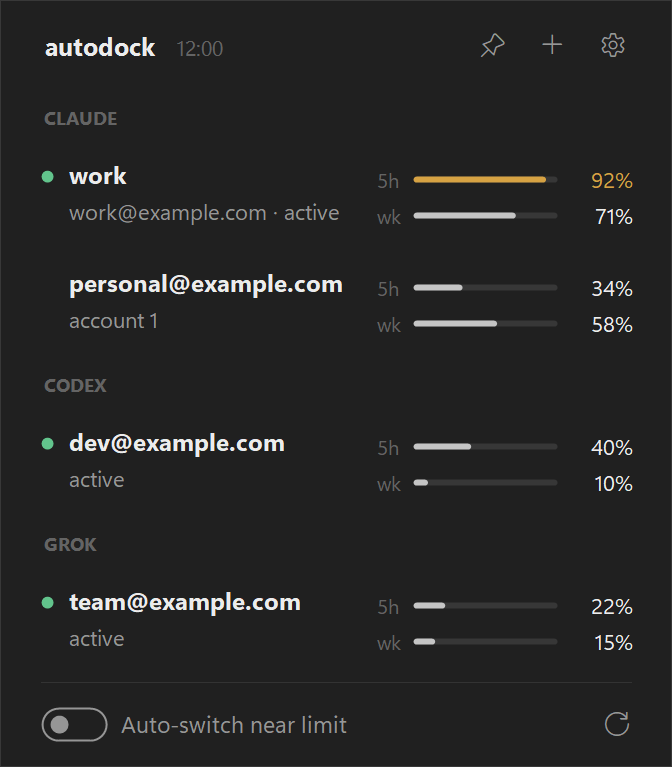
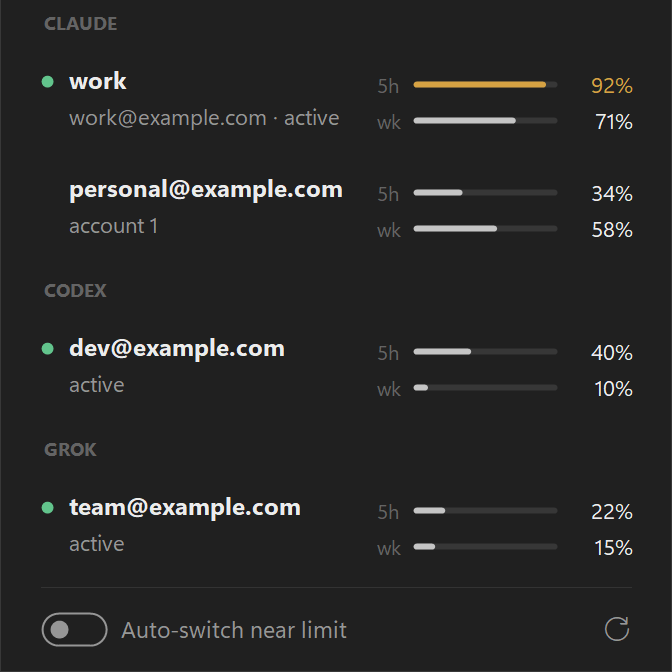
docs: reposition handoff as an autonomous multi-account coding coordinator
Claude-Session: https://claude.ai/code/session_015bkmdTqQwJf6R9nwCRZGKb

diff --git a/README.md b/README.md
@@ -1,44 +1,73 @@
 # handoff
 
-multi-account switcher for Claude Code, Codex, and Grok Build. live usage, reset timers, and one-click switching.
+**Your Claude accounts. One coding team.**
 
-**[download for Windows](https://github.com/trexchery/handoff/releases/latest)**
+handoff turns your Claude Code accounts into a coordinated coding team. a Director plans the work; agents build, test, review, and open pull requests on your other accounts. you review and merge.
+
+```text
+Director  ->  coding agents  ->  verification + review  ->  GitHub pull request
+plans         one isolated       your test command,         pushed and opened by handoff.
+the work      worktree each      then a fresh reviewer      you merge. agents never do.
+```
+
+## how it works
+
+1. you set a goal or point agents at a repository's open issues.
+2. a read-only Director on Opus plans the next steps, orders them by dependency, and picks a model and effort for each. plain issues get a short Sonnet pass that orders and routes them instead.
+3. each step runs in its own git worktree and branch, as one of your other Claude accounts.
+4. handoff runs your verification command, then a fresh read-only session reviews the change. problems go back to the same session.
+5. handoff pushes the branch and opens a pull request. failing checks, conflicts, and review comments get another pass.
+
+## what you get
+
+- **autonomous issue handling**: works through actionable issues you opened or are assigned to, one reviewed pull request each.
+- **goal planning**: "the app has a settings page; `npm test` must pass". a goal counts as achieved only on evidence: merged work and passing checks.
+- **cross-repository coordination**: a goal can plan steps in your other repositories, and a step can wait for one in another.
+- **dependency ordering**: steps wait for the ones they build on to be merged.
+- **adaptive routing**: Haiku, Sonnet, or Opus, and low to max effort, chosen per run and raised only when reviews or checks fail.
+- **optional Ultracode**: off until you turn it on in settings, then used only on an idle account with plenty of quota.
+- **account and quota routing**: each run goes to an account with room in that model's own weekly window, and waits when none has (Opus work falls back to Sonnet at high effort or more).
+- **resumable, isolated work**: worktrees, branches, and sessions survive restarts, crashes, and pauses.
+
+details, limits, and costs: [docs/agents.md](docs/agents.md).
+
+## quick start
+
+needs **Windows 11 (64-bit)**, [Claude Code](https://docs.anthropic.com/en/docs/claude-code) with auto mode, [Git for Windows](https://git-scm.com/download/win), and the [GitHub CLI](https://cli.github.com/) signed in (`gh auth login`). agents run on Claude accounts other than the one you're signed in with, so add at least one more.
+
+1. download `handoff-win-x64.zip` from the [latest release](https://github.com/trexchery/handoff/releases/latest), extract it, and run `handoff\handoff.exe`.
+2. open the tray icon, use **+** to add each Claude account through official CLI sign-in.
+3. click the agents button (bottom right of the flyout) and pick your repository. a Claude Code terminal opens there.
+4. type your first goal:
+
+   ```text
+   goal: the app has a settings page; `npm test` must pass
+   ```
+
+   or, for existing issues: *"work through the open issues; `npm test` must pass"*.
+5. confirm the handoff dialog. it shows the branch pull requests target and the exact verification command.
+
+ask the same terminal what's going on, to reorder or skip work, or to answer a question. agents run **only while that repository's terminal is open**: close it and they pause where they are, reopen it and they continue. nothing runs in the background.
+
+## also in handoff
 
 <p align="center">
-  <img src="assets/handoff.png" width="420" alt="handoff tray dashboard listing Claude, Codex, and Grok Build accounts with 5-hour and weekly usage">
+  <img src="assets/handoff.png" width="380" alt="handoff tray dashboard listing Claude, Codex, and Grok Build accounts with 5-hour and weekly usage (the account dashboard, not the Director)">
 </p>
 
-## features
-
-- 5-hour and weekly usage limits and reset times for every account in one tray dashboard
-- one-click account switching without closing running sessions
-- pinned Claude terminals and optional auto-switching between Claude accounts
-- **continue in...** starts a new CLI session with local handoff notes after an interruption
-- project folders: assign a folder to an account, and terminals opened there run as that account without changing your login
-- **preserve remote control** (on by default): a new terminal turns Claude remote control back on only if its last session used it
-- optional quota notifications when a limit gets near, runs out, or resets
-- **auto-prime** (off by default): tracks each Claude account's 5-hour window and, with one click in the tray menu, starts every fresh one early with a single silent Haiku "hi" (no window, nothing saved), so it also resets early. success is only claimed once a new usage reading shows the window started
-- **agents** (off until you start them): work through a repository's open GitHub issues on your other Claude accounts, one reviewed pull request at a time, steered from a normal Claude Code terminal. give them a goal and a read-only director plans the steps, across your repositories, and calls it done only on evidence. never merges. [how it works](docs/agents.md)
-
-## install
-
-**Windows 11 (64-bit)** and [Claude Code](https://docs.anthropic.com/en/docs/claude-code) required. Codex and Grok Build optional.
-
-1. download `handoff-win-x64.zip` from the [latest release](https://github.com/trexchery/handoff/releases/latest).
-2. extract the zip and run `handoff\handoff.exe`.
-3. open the tray icon and use **+** to add accounts through official CLI sign-in.
-
-no installer or admin access required. unsigned releases may trigger Windows SmartScreen; a `.sha256` checksum is included with the download.
+- **usage dashboards**: 5-hour and weekly limits and reset times for every Claude, Codex, and Grok Build account in one tray window.
+- **account switching**: one click, without closing running sessions. optional auto-switching near a limit (off by default, Claude only).
+- **pinned terminals and project folders**: a terminal stays on its account, and a folder can be assigned an account without changing your login.
+- **session handoffs**: **continue in...** starts a new CLI session with local notes after an interruption.
 
 ## good to know
 
-- automatic switching is **off by default** and currently supports Claude accounts only.
-- switching updates the default CLI login. running Codex/Grok sessions need restarting to use the newly selected account; pinned Claude terminals remain on their assigned account.
-- Claude stops remote control when the signed-in account changes, and handoff never reconnects or types into a running session. pinned terminals keep their account, so their remote control is unaffected.
-- **continue in...** notes are built locally and handoff sends nothing, but the new agent sends them to its provider like any prompt. notes are deleted after 7 days.
-- saved credentials are encrypted locally with Windows DPAPI. a pinned Claude terminal holds a plaintext login only while it's open; handoff moves it back into the encrypted store when it closes. no telemetry, cloud sync, or browser-cookie access. [security policy](SECURITY.md).
-- Grok Build support has only been tested with synthetic data so far.
-- auto-prime is off by default and never sends on a schedule: each prime is one click of yours. that click doesn't make it allowed: Anthropic's consumer terms (§3) restrict automated or scripted access to a subscription, so whether to use it is your call. it skips excluded, API-key and paid-extra-usage accounts and any near a weekly or model limit, which makes a charge unlikely but can't rule one out. when it can't tell whether a prime went out, or can't record one, it stops rather than send again.
+- **you approve.** the dialog above gates agents; a change is held for you after two review passes still find problems or when it touches `.github/`; questions are posted on the issue. agents never merge, close issues, deploy, or change settings and secrets.
+- **only your issues.** issues from strangers are never picked up, and only comments from you or the repository's owners, members, and collaborators count.
+- **agents don't push.** their environment has no GitHub login; handoff pushes after verification and review. sessions run as your Windows user, so this prevents mistakes, not a determined program.
+- **terms apply.** Anthropic's consumer terms (§3) restrict automated or scripted subscription access, so whether to run agents (or the optional auto-prime) on your accounts is your call. agents skip API-key accounts and stop before a subscription with extra usage on reaches the switch threshold.
+- **providers.** agents use Claude Code only. Codex and Grok Build appear in the dashboard and switcher; Grok Build has only been tested with synthetic data.
+- **credentials stay local.** saved logins are encrypted with Windows DPAPI. no telemetry, cloud sync, or browser-cookie access. releases are unsigned, so SmartScreen may warn; a `.sha256` checksum ships with the download. [SECURITY.md](SECURITY.md).
 
 ## build from source
 
@@ -50,4 +79,4 @@ cd handoff
 pwsh dock\build.ps1
 ```
 
-built on [claude-swap](https://github.com/realiti4/claude-swap) by Onur Cetinkol. handoff additions by trexchery. [MIT license](LICENSE). independent project, not affiliated with Anthropic, OpenAI, or xAI; provider terms apply.
+built on [claude-swap](https://github.com/realiti4/claude-swap) by Onur Cetinkol. handoff additions by trexchery. [MIT license](LICENSE). independent project, not affiliated with Anthropic, OpenAI, or xAI.
